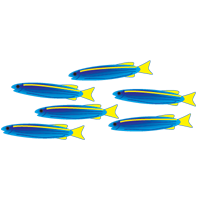
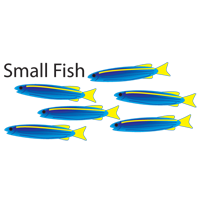
High Score and Small Fish
Added high score to user layer and added label to small fish

Changed region(s): [[0.0, 0.3, 0.99, 0.72], [0.42, 0.69, 0.45, 0.72]]

diff --git a/NeeditFeeditCocos/UserLayer.m b/NeeditFeeditCocos/UserLayer.m
@@ -10,6 +10,7 @@
 #import "PauseLayer.h"
 #import "SimpleAudioEngine.h"
 #import "CDAudioManager.h"
+#import "LevelManager.h"
 
 static const int HEIGHTSCALE = 0.97;
 
@@ -20,8 +21,10 @@ static const int HEIGHTSCALE = 0.97;
     CCLabelTTF* scoreText;
     CCSprite* multiLabel;
     CCLabelTTF* multiText;
+    CCLabelTTF* highScoreText;
     int endValue;
     double delta;
+    int highScore;
 }
 
 -(id) init{
@@ -40,11 +43,26 @@ static const int HEIGHTSCALE = 0.97;
         
         //Create score label
         scoreLabel = [CCSprite spriteWithFile:@"score.png"];
-        scoreLabel.position = ccp(size.width*.48, size.height*HEIGHTSCALE);
+        scoreLabel.position = ccp(size.width*.35, size.height*HEIGHTSCALE);
         
         scoreText = [CCLabelTTF labelWithString:@"" fontName:@"Hobo" fontSize:36];
-        scoreText.position = ccp(size.width*.48 + scoreLabel.contentSize.width/2 + 40, size.height*HEIGHTSCALE);
+        scoreText.position = ccp(size.width*.35 + scoreLabel.contentSize.width/2 + 40, size.height*HEIGHTSCALE);
         scoreText.color = ccc3(48, 0, 68);
+        
+        //Get the high Score from the data file
+        NSArray *paths = NSSearchPathForDirectoriesInDomains(NSDocumentDirectory, NSUserDomainMask, YES);
+        NSString *documentsDirectory = [paths objectAtIndex:0];
+        NSString *path = [documentsDirectory stringByAppendingPathComponent:[NSString stringWithFormat:@"Data.plist"]];
+        NSDictionary* plistDictionary = [NSDictionary dictionaryWithContentsOfFile:path];
+        Level *curLevel = [[LevelManager sharedInstance] currentLevel];
+        NSDictionary* ecosystem = plistDictionary[curLevel.ecosystem];
+        NSString* levelName = [NSString stringWithFormat:@"Level%i", curLevel.levelNum];
+        highScore = [ecosystem[levelName] intValue];
+        
+        NSString* hiScore = [NSString stringWithFormat:@"High Score: %d", highScore];
+        highScoreText = [CCLabelTTF labelWithString:hiScore fontName:@"Hobo" fontSize:36];
+        highScoreText.position = ccp(size.width*.6, size.height*HEIGHTSCALE);
+        highScoreText.color = ccc3(48, 0, 68);
         
         //Add pause button
         CCMenuItemImage* pause  = [CCMenuItemImage itemWithNormalImage:@"pause.png" selectedImage:@"pausesel.png" target:self selector:@selector(pausePressed:)];
@@ -74,6 +92,7 @@ static const int HEIGHTSCALE = 0.97;
         [self addChild: scoreText];
         [self addChild: pauseMenu];
         [self addChild: soundMenu];
+        [self addChild: highScoreText];
         
         
         self.touchEnabled = YES;
@@ -94,6 +113,10 @@ static const int HEIGHTSCALE = 0.97;
 
 -(void) updatePoints: (int) points{
     scoreText.string = [NSString stringWithFormat:@" %d", points];
+    if (_points>highScore) {
+        highScore = points;
+        highScoreText.string = [NSString stringWithFormat:@"High Score: %d", highScore];
+    }
 }
 
 -(void) pausePressed: (id) sender{
